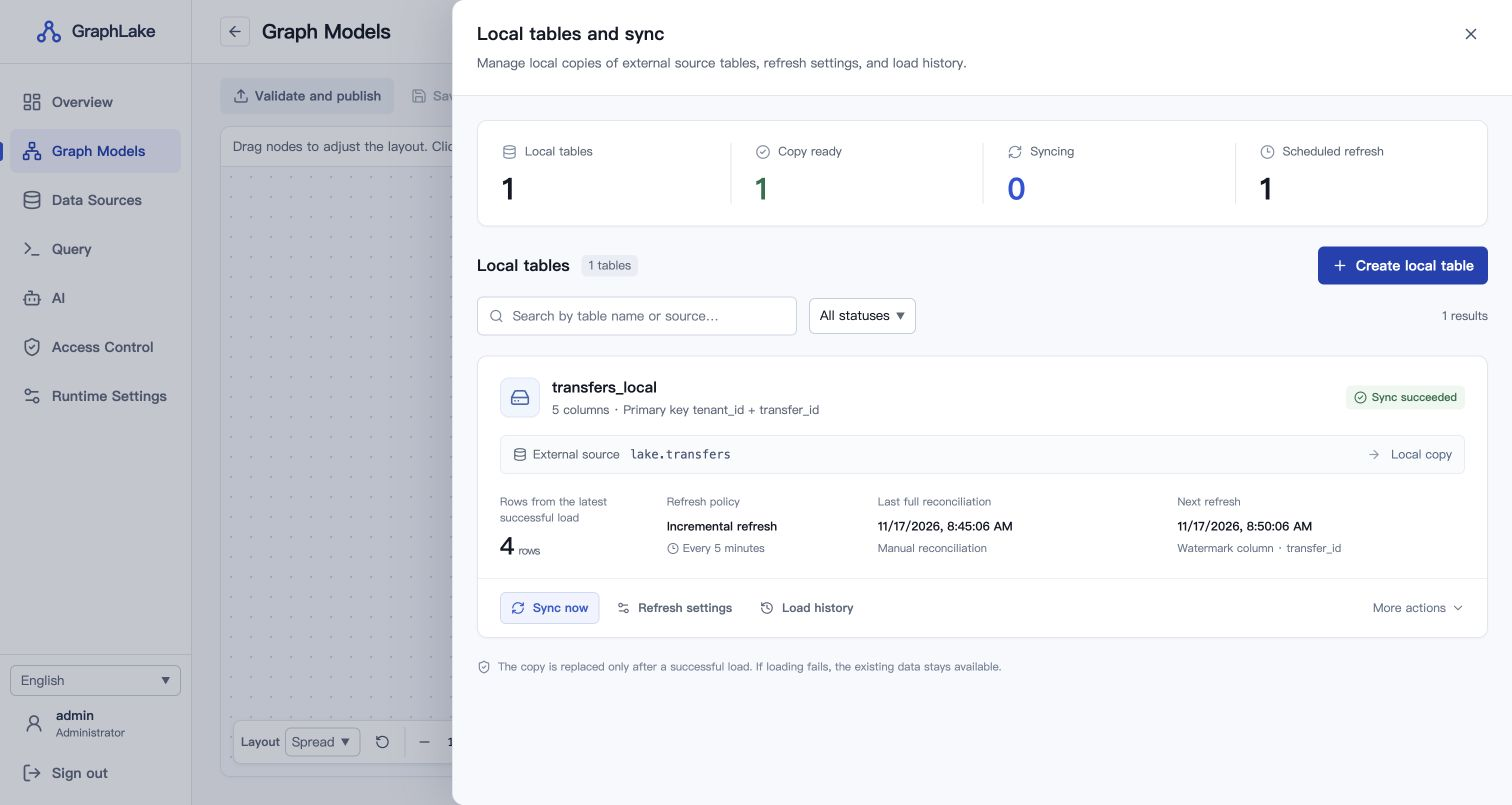
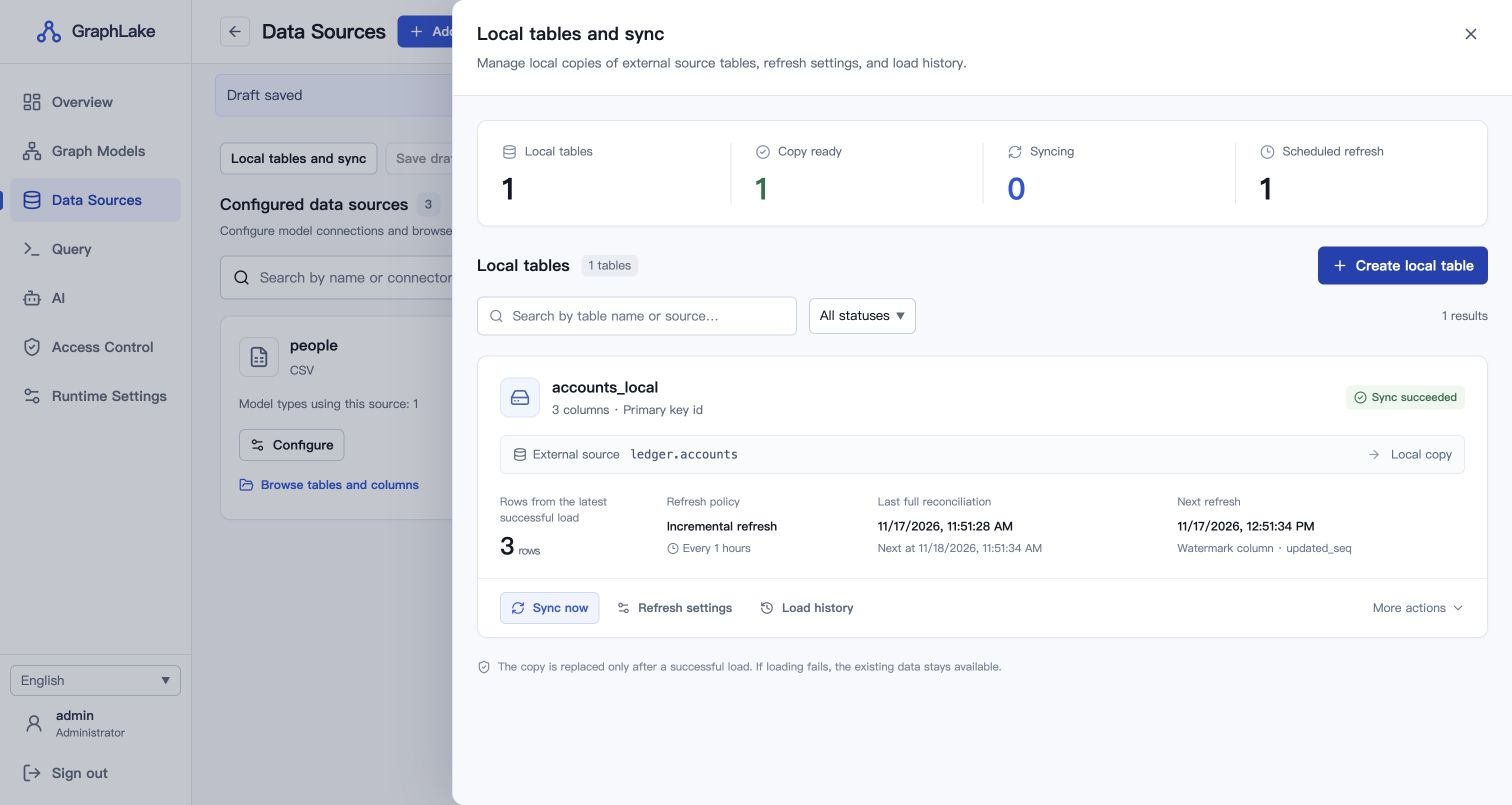
Document the data source and local sync workflows

diff --git a/README.md b/README.md
@@ -33,7 +33,7 @@ npx --yes wrangler@4.163.0 pages deploy dist --project-name graphlake-docs --bra
 
 - Edit corresponding English and Chinese guides together. Operations guides live in `operations-en.mjs` and `operations-zh.mjs`. Keep the section IDs and their ordering matched so language switching preserves the section.
 - Keep commands and version-specific download URLs in `examples.mjs`. Check them against the release artifacts before updating the documented version.
-- `assets/` holds the site's styles, client script, and public product screenshots. The workbench and local-table screenshots show the English GraphLake v1.1.1 console with the Parquet example. The model editor, query parameter, and neighbor expansion screenshots use the CSV and JSON Lines transfer example. The connector artwork and its license come from `web/src/assets/connectors/`.
+- `assets/` holds the site's styles, client script, and English GraphLake v1.1.1 screenshots. The workbench uses the Parquet example. The model editor and query walkthrough use the CSV and JSON Lines transfer example. The source browser and sync walkthrough use the SQLite fixture in `handbook-examples.mjs`. The connector artwork and its license come from `web/src/assets/connectors/`.
 - The home page uses `assets/graph-background.webp` for the decorative artwork and serves Geist and Geist Mono locally. Their license is in `assets/LICENSE-geist.txt`.
 - `assets/graphlake-logo.png` is the [official GraphLake mark](https://github.com/SamuelSupe/graphlake/blob/6857b723de2f7cdad5955a8ddb0afc5719e494d3/docs/images/graphlake-logo.png). The header and favicon use this same image.
 - The bilingual handbook and documentation index live in `handbook-en.mjs` and `handbook-zh.mjs`. The build generates the search index from the guide content.
